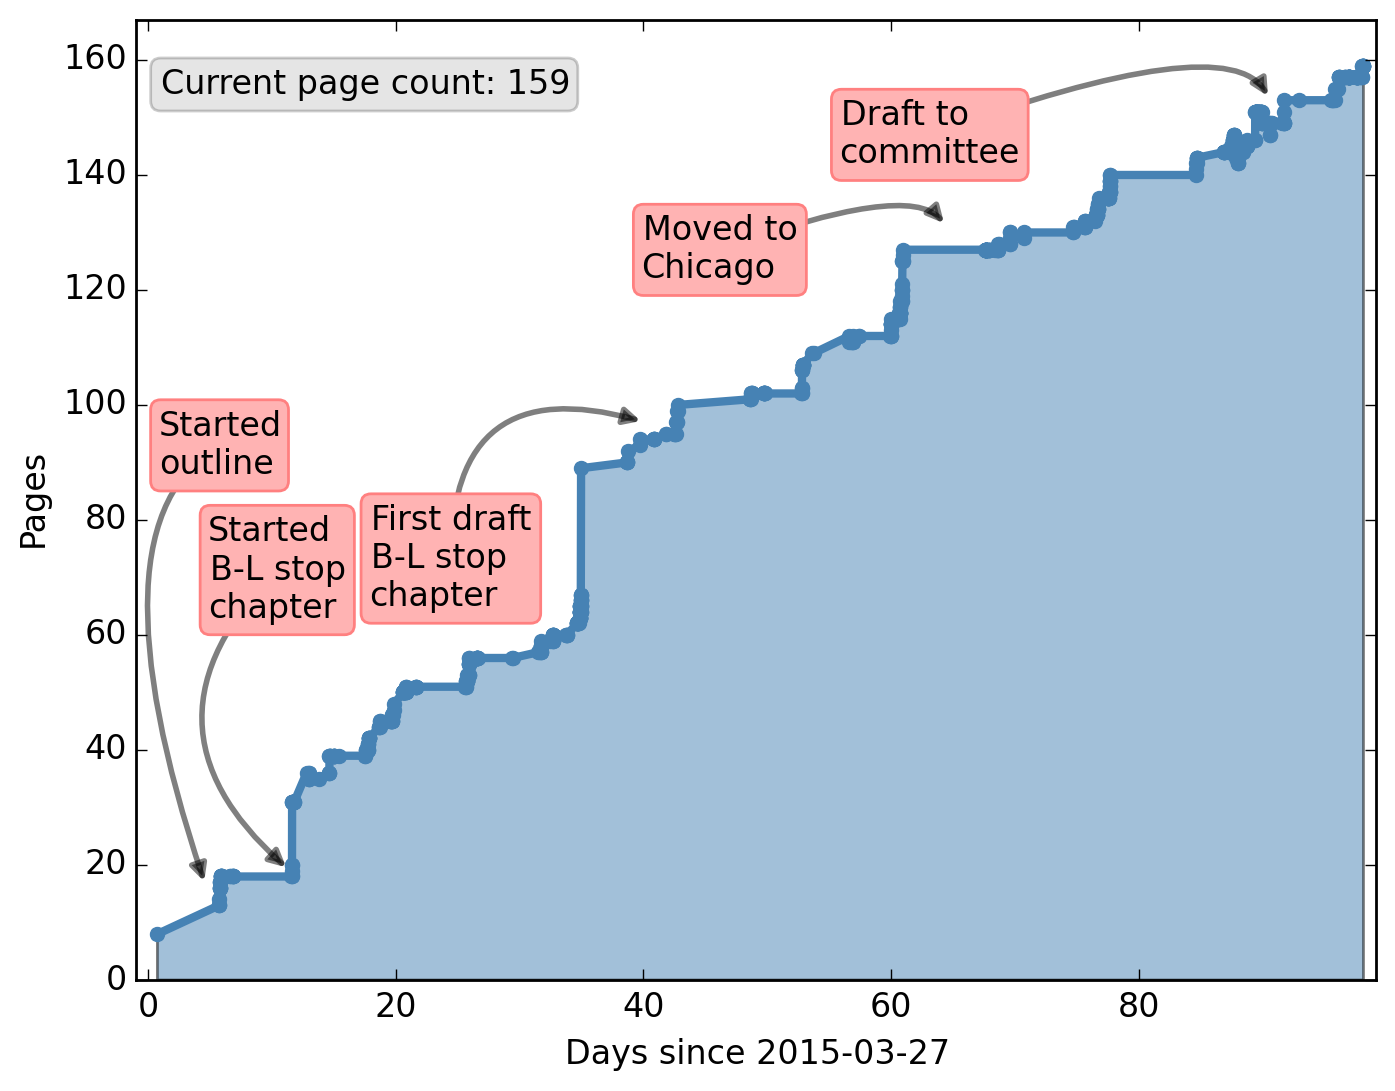
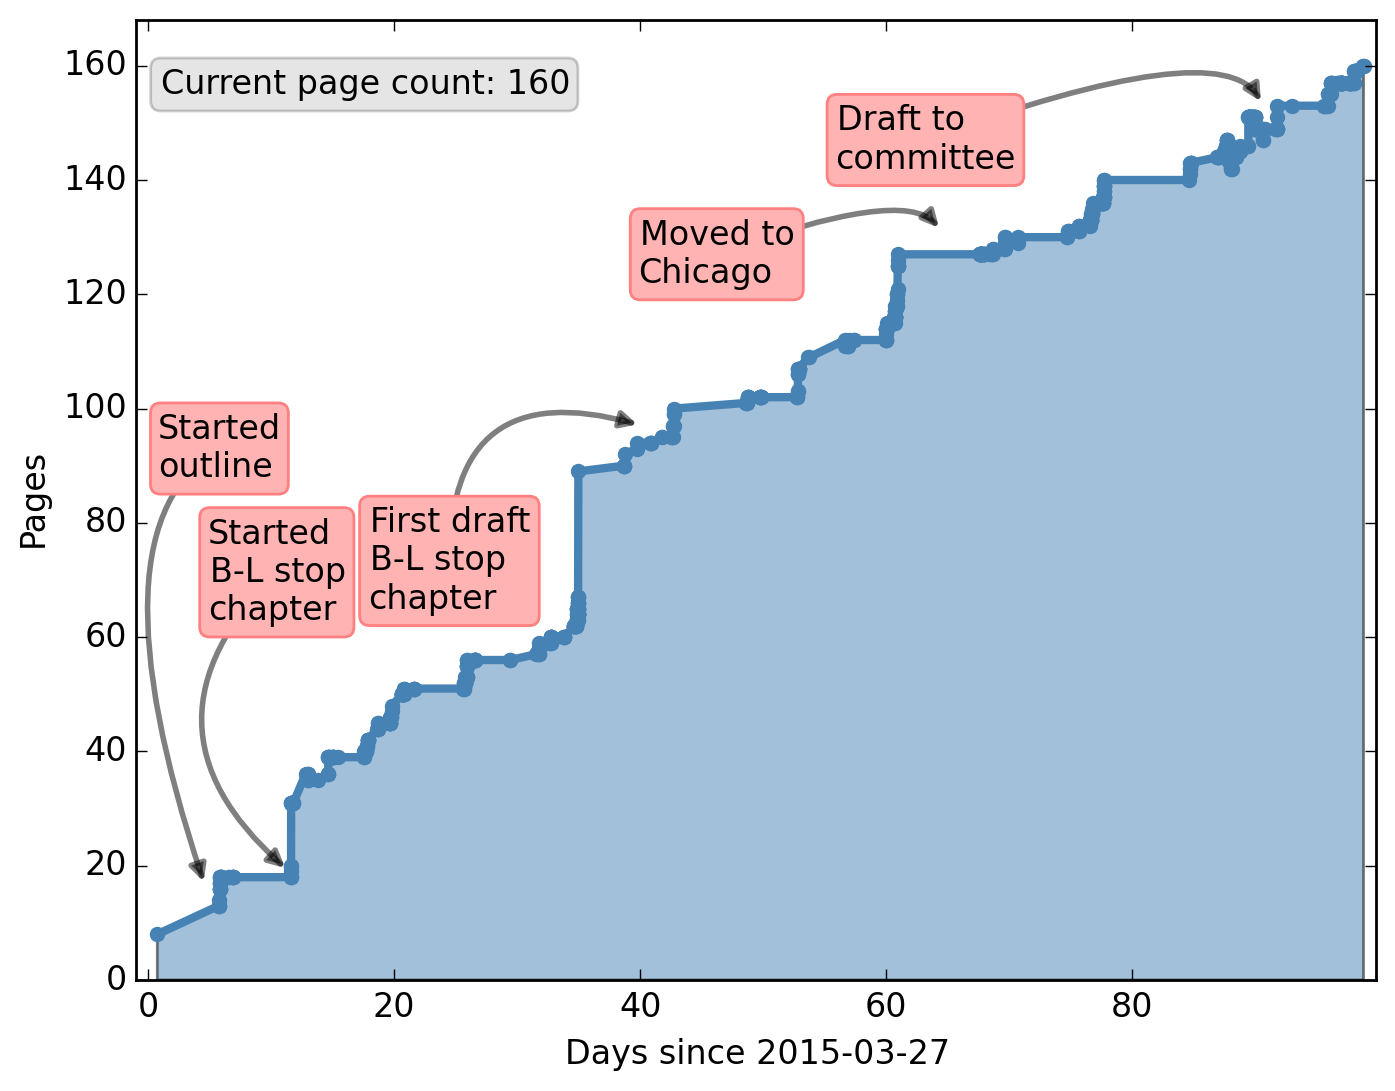
LHC section

diff --git a/tex/lhc.tex b/tex/lhc.tex
@@ -1,11 +1,18 @@
 %% \chapter[htoc-titlei][hhead-titlei]{htitlei}
 %% -----------------------------------------------------------------------------
 \chapter[The LHC and the \atlas\ experiment][The LHC and \atlas]
-        {The LHC and the \atlas\ experiment}
+        {The Large Hadron Collider and the \atlas\ experiment}
 \label{ch:lhc}
 
 \begin{quote}
-  blah blah blah ...
+  As the name suggests, the Large Hadron Collider (LHC) is a particle collider,
+  which collides particles at very high energies.
+  There are four major experiments, including \atlas, which collect and study
+  data generated from these particle collisions in an effort to study
+  the properties of nature, and search for signs of physics beyond the Standard
+  Model.
+  This chapter gives a brief introduction to the LHC machine, and the
+  \atlas\ experiment.
 \end{quote}
 
 %% ------------------------------------------------------------------------------
@@ -13,8 +20,16 @@
 \section{The LHC}
 \label{sec:lhc}
 
-{\color{red}Standard stuff about the LHC accelerator complex, and there
-  are four major experiments. This shouldn't be too long}
+The LHC~\cite{cern-jinst-lhc} is circular particle accelerator, with a
+circumference of 27~km, built 100~m underground, underneath the French-Swiss
+border near the city of Geneva, Switzerland, shown in
+Figure~\ref{fig:lhc_aerial}.
+The LHC is operated by the European Organization for Nuclear Research
+(CERN~\footnote{Conseil Europ\'een pour la Recherche Nucl\'eaire}).
+The LHC became fully operational in 2010, providing proton-proton collisions
+to the experiments along the ring at an unprecedented center-of-mass energy
+of 7~\TeV.
+In 2012, the energy was increased to 8~\TeV.
 
 \begin{figure}[ht]
   \centering
@@ -27,6 +42,39 @@
   \label{fig:lhc_aerial}
 \end{figure}
 
+Four major experiments are positioned around the LHC to collect and analyze
+data from the hadron collisions.
+The experiments include \atlas~\cite{cern-jinst-atlas},
+\cms~\cite{cern-jinst-cms}, \alice~\cite{cern-jinst-alice,}, and
+\lhcb~\cite{cern-jinst-lhcb}.
+\atlas\ and \cms\ are designed to be ``general purpose experiments,'' searching
+for physics beyond the Standard Model which may present itself in may ways.
+The two experiments complement each other by providing independent results,
+which can be verified against the each other.
+\alice\ is designed to study the heavy ion (lead nuclei) collisions, studying
+the properties of quark-gluon plasma.
+The \lhcb\ experiment is primarily interested in studying the physics of
+$b$-hadrons.
+
+%% ------------------------------------------------------------------------------
+\FloatBarrier
+\subsection{CERN accelerator complex}
+\label{sec:accelerator_complex}
+
+The LHC is only the final stage in a series of accelerators, operated by CERN,
+used to provide high energy particle collisions.
+For proton-proton collisions, protons begin in the Linac 2 linear
+accelerator, where they are accelerated to an energy of 50~\MeV\ per proton.
+From there, they are fed through several circular accelerators, including
+the Proton Synchrotron Booster (PSB), Proton Synchrotron (PS), and the Super
+Proton Synchrotron (SPS), where the protons are accelerated to energies of
+1.4~\GeV, 25~\GeV, and 450~\GeV\ respectively.
+At this stage, the protons are injected into the LHC accelerator, where 
+in 2012, they were accelerated to an energy of 4~\TeV\ per proton, and finally
+collided.
+A schematic of the CERN accelerator complex, and how they link to one another
+is shown in Figure~\ref{fig:cern_complex}.
+
 \begin{figure}[ht]
   \centering
   \includegraphics[width=\textwidth, clip=true, trim=15cm 0 15cm 10cm]
@@ -36,6 +84,29 @@
   }
   \label{fig:cern_complex}
 \end{figure}
+
+Rather than a constant stream of protons, the protons in the LHC are separated
+into over 1000 bunches, each containing over $10^{11}$ protons.
+In each of the interaction points around the LHC ring, proton bunches cross
+onces every 50~ns, where each crossing leads to potential collisions between
+the constituent protons.
+The instantaneous luminosity of collisions in these bunch crossings is given by
+\begin{equation}
+  \mathcal{L}_\mathrm{instantaneous} =
+  \frac{N_{1}N_{2} n_b f_\mathrm{rev}}
+  {4\pi \sigma_{x} \sigma_{y}}
+  F,
+\end{equation}
+where $N_{1,2}$ are the number of protons per bunch, $n_b$ is the number of
+bunches, $f_\mathrm{rev}$ is the frequency at which the protons are revolution
+frequency, $\sigma_{x,y}$ is the width of the beam in the transverse directions,
+and $F$ is a reduction factor, accounting for the fact that the beams cross
+at an angle, rather than head-on.
+As the proton beams circulate, and undergo collisions, they tend to spread out,
+increasing $\sigma_{x,y}$, and reducing the instantaneous luminosity over time.
+Typically, once the LHC is filled with proton beams, and accelerated to their
+full energy, they are circulated for several hours before they are dumped, and
+the accelerator is filled again.
 
 %% ------------------------------------------------------------------------------
 \FloatBarrier

diff --git a/PageNumbers.md b/PageNumbers.md
@@ -711,3 +711,6 @@ Thu Jul 2 23:46:45 EDT 2015 , 159
 Thu Jul 2 23:51:10 EDT 2015 , 159
 Thu Jul 2 23:57:50 EDT 2015 , 159
 Fri Jul 3 00:13:27 EDT 2015 , 159
+Fri Jul 3 14:05:51 EDT 2015 , 160
+Fri Jul 3 14:21:18 EDT 2015 , 160
+Fri Jul 3 15:02:04 EDT 2015 , 160
